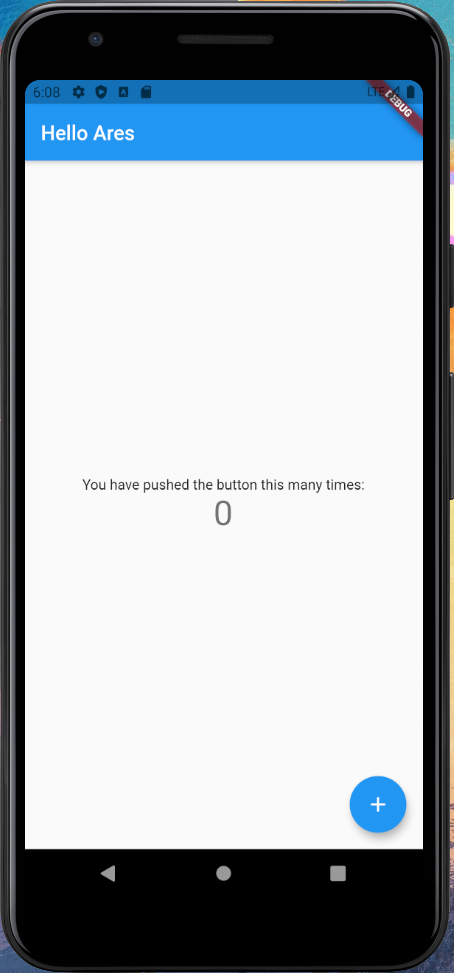
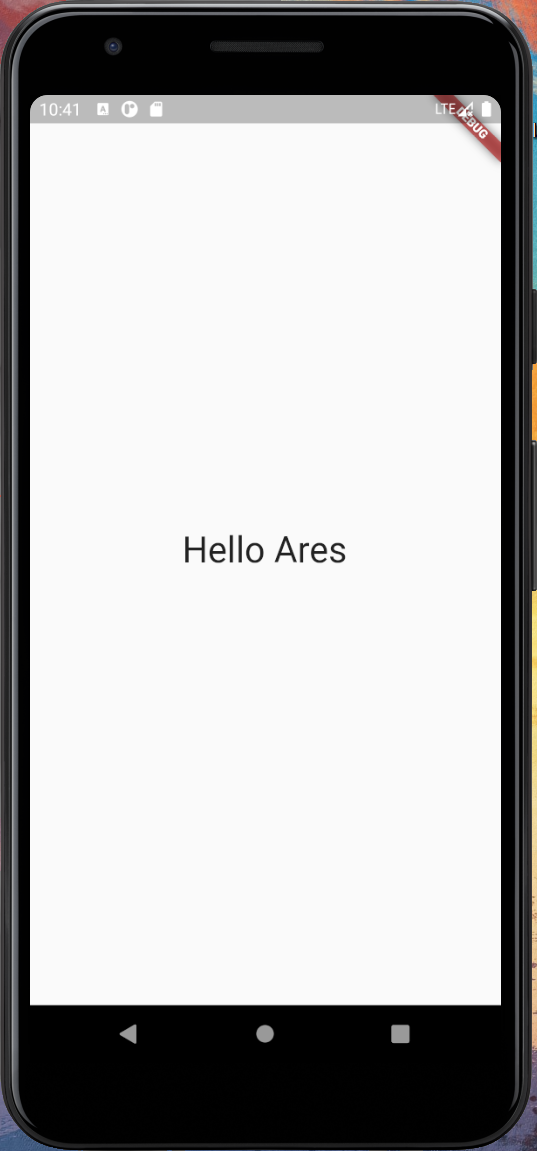
Minor change

diff --git a/lib/main.dart b/lib/main.dart
@@ -1,65 +1,35 @@
 import 'package:flutter/material.dart';
 import 'package:flutter_rust_ffi_windows/greeter.dart';
 
-void main() {
-  runApp(MyApp());
-}
+void main() => runApp(MyApp());
 
 class MyApp extends StatelessWidget {
   @override
   Widget build(BuildContext context) {
     return MaterialApp(
-      title: 'Flutter Demo',
-      theme: ThemeData(
-        primarySwatch: Colors.blue,
-      ),
-      home: MyHomePage(title: 'Flutter Demo Home Page'),
+      home: MyHomePage(),
     );
   }
 }
 
-class MyHomePage extends StatefulWidget {
-  MyHomePage({Key? key, this.title}) : super(key: key);
-
-  final String? title;
-
-  @override
-  _MyHomePageState createState() => _MyHomePageState();
-}
-
-class _MyHomePageState extends State<MyHomePage> {
-  int _counter = 0;
-
-  void _incrementCounter() {
-    setState(() {
-      _counter++;
-    });
-  }
+class MyHomePage extends StatelessWidget {
+  MyHomePage({Key? key,}) : super(key: key);
 
   @override
   Widget build(BuildContext context) {
     return Scaffold(
-      appBar: AppBar(
-        title: Text(Greeter.greet('Ares')),
-      ),
       body: Center(
         child: Column(
           mainAxisAlignment: MainAxisAlignment.center,
           children: <Widget>[
             Text(
-              'You have pushed the button this many times:',
-            ),
-            Text(
-              '$_counter',
-              style: Theme.of(context).textTheme.headline4,
+              Greeter.greet('Ares'),
+              style: TextStyle(
+                fontSize: 30,
+              ),
             ),
           ],
         ),
-      ),
-      floatingActionButton: FloatingActionButton(
-        onPressed: _incrementCounter,
-        tooltip: 'Increment',
-        child: Icon(Icons.add),
       ),
     );
   }
